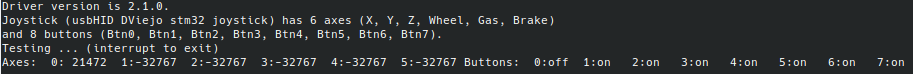
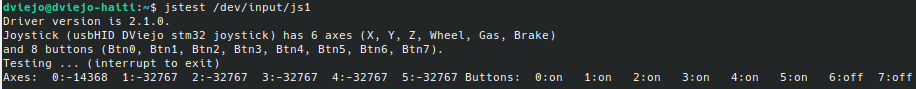
Software Setup

Changed region(s): [[0.0, 0.1892, 1.0, 0.9189], [0.0, 0.027, 0.3373, 0.1622]]

diff --git a/README.md b/README.md
@@ -12,11 +12,13 @@ The libopencm3 code is released under the terms of the GNU Lesser General Public
 Uses libOpenCM3 HAL Library and FreeRTOS
  * Thanks to Warren Gay and his "Beginning STM32: Developing with FreeRTOS, libopencm3 and GCC"
  
-I've picked up ideas from these (thanks a lot for sharing your knowledge):
+I've picked up ideas from here (thanks a lot for sharing your knowledge):
 
 * https://satoshinm.github.io/blog/171227_stm32hid_pill_duck_scriptable_usb_hid_device_using_an_stm32_blue_pill_from_mouse_jigglers_to_rubber_duckies.html
 * https://hackaday.io/project/163715-wii-nunchuk-as-a-usb-hid-controller/log/159261-first-steps-with-stm32-usb-firmware
- 
+
+And also from Arduino Joystick library from MHeironimus:
+* https://github.com/MHeironimus/ArduinoJoystickLibrary
  
 The bluepill is configured as a multiaxis joystick with:
     * 8 buttons
@@ -27,8 +29,38 @@ The bluepill is configured as a multiaxis joystick with:
   
 This firmware has been flashed in a stm32f103C8 Bluepill device and tested using linux jstest program.
 
+![dmesg](./img/dmesg.png "dmesg output")
+
+![jstest](./img/jstest.png "joystick test")
+
 ## Software Setup
 
-Coming soon...
-  
+I've been using the Toolchain for compiling and flashing stm32 firmware as described in the book "Beginning STM32: Developing with FreeRTOS, libopencm3 and GCC" by Warren Gay. The procedure for setting up all the software can be resumed as follows:
+
+1. Linux. Remove any other pseudo-operating-system and install linux on your computer now. --Ironic mode off-- Now, I am a linux user. I don't know how to do this software setup for other OS. If you want to compile it in other OS, take a look at the book.
+2. Assuming that you are using any Ubuntu flavor (I use Kubuntu in my computer), open a text terminal and type the next commands (the first one is the only one debian apt dependant, the others are the same for every OS):
+
+```
+
+    $ sudo apt install build-essential git gcc-arm-none-eabi
+    $ git clone https://github.com/ve3wwg/stm32f103c8t6.git
+    $ cd stm32f103c8t6
+    $ git clone https://github.com/libopencm3/libopencm3.git
+    $ cd rtos
+    $ git clone https://github.com/FreeRTOS/FreeRTOS.git
+    $ git clone https://github.com/dviejo/stm32joystick_demo.git
+```
+
+3. Edit the file Project.mk in folder stm32f103c8t6/rtos and modify the line `FREERTOS ?= FreeRTOSv10.0.1` to `FREERTOS ?= FreeRTOS`
+4. Build the firmware
+
+```
+    $ cd stm32joystick_demo
+    $ make
+    $ make flash
+```
+
+## License
+
+stm32joystick_demo code is released under the terms of the GNU Lesser General Public License (LGPL), version 3 or later.
  
